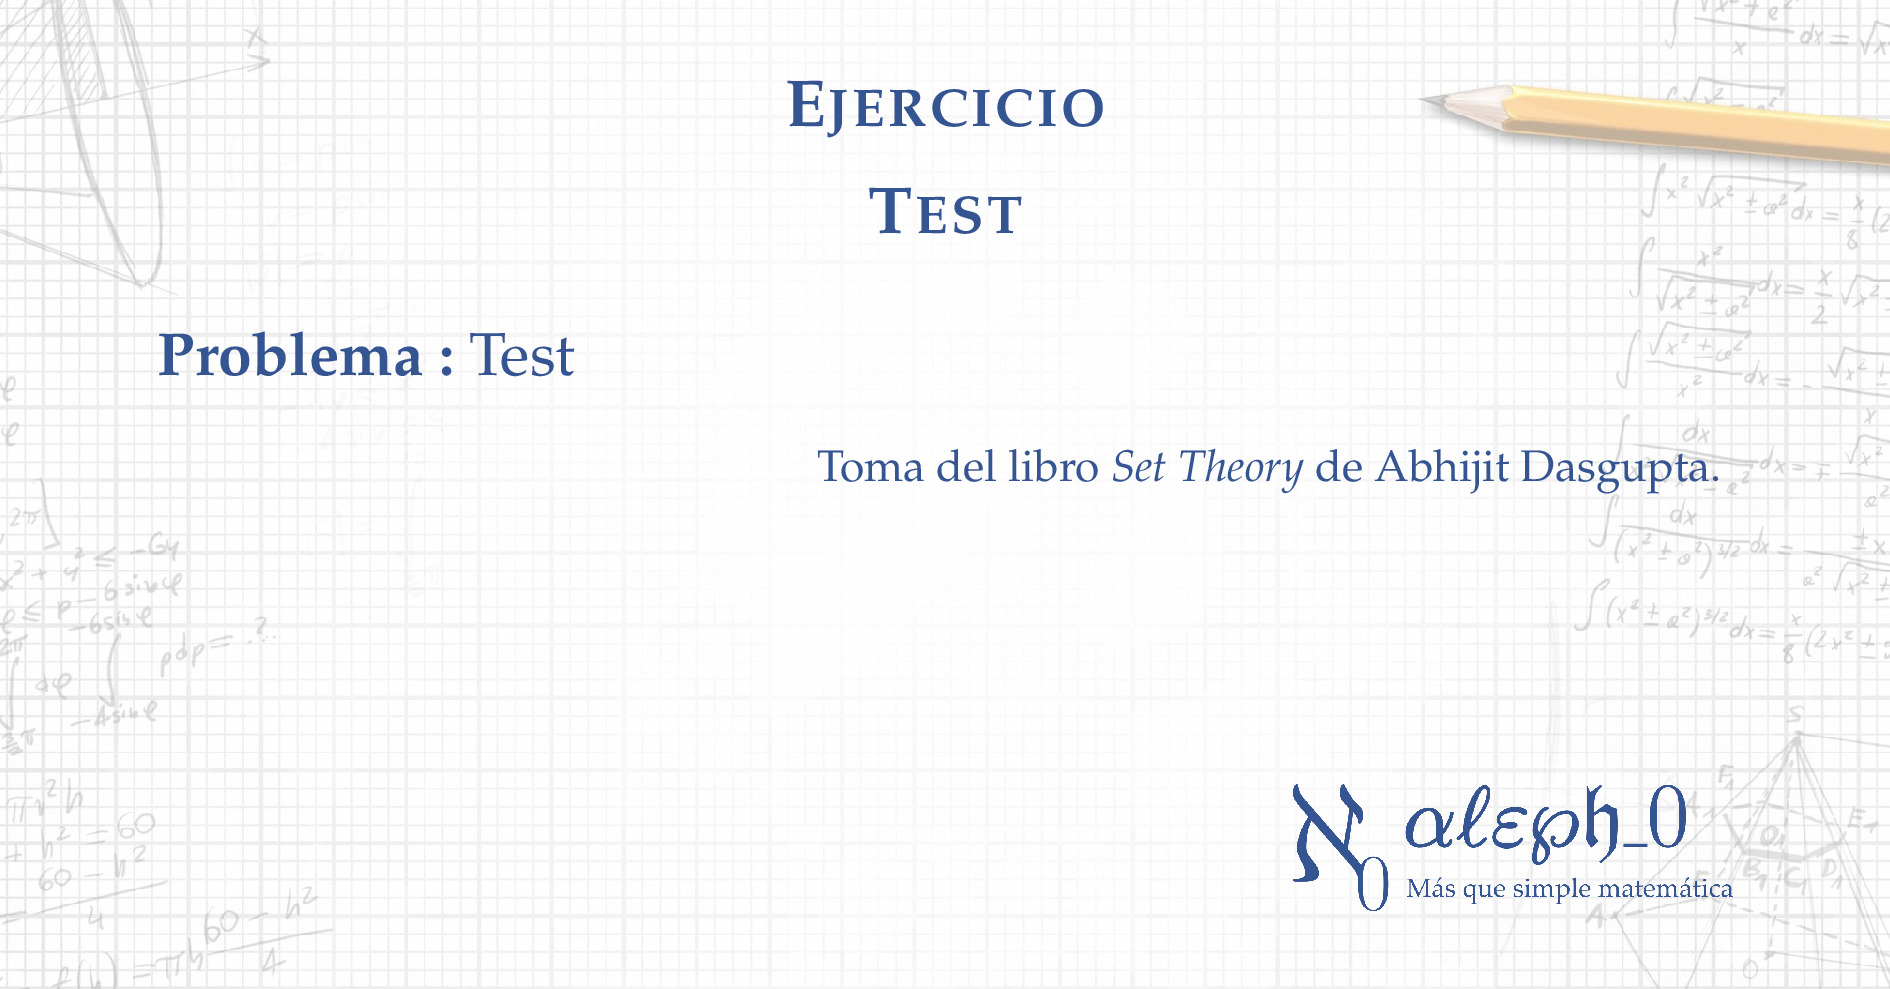
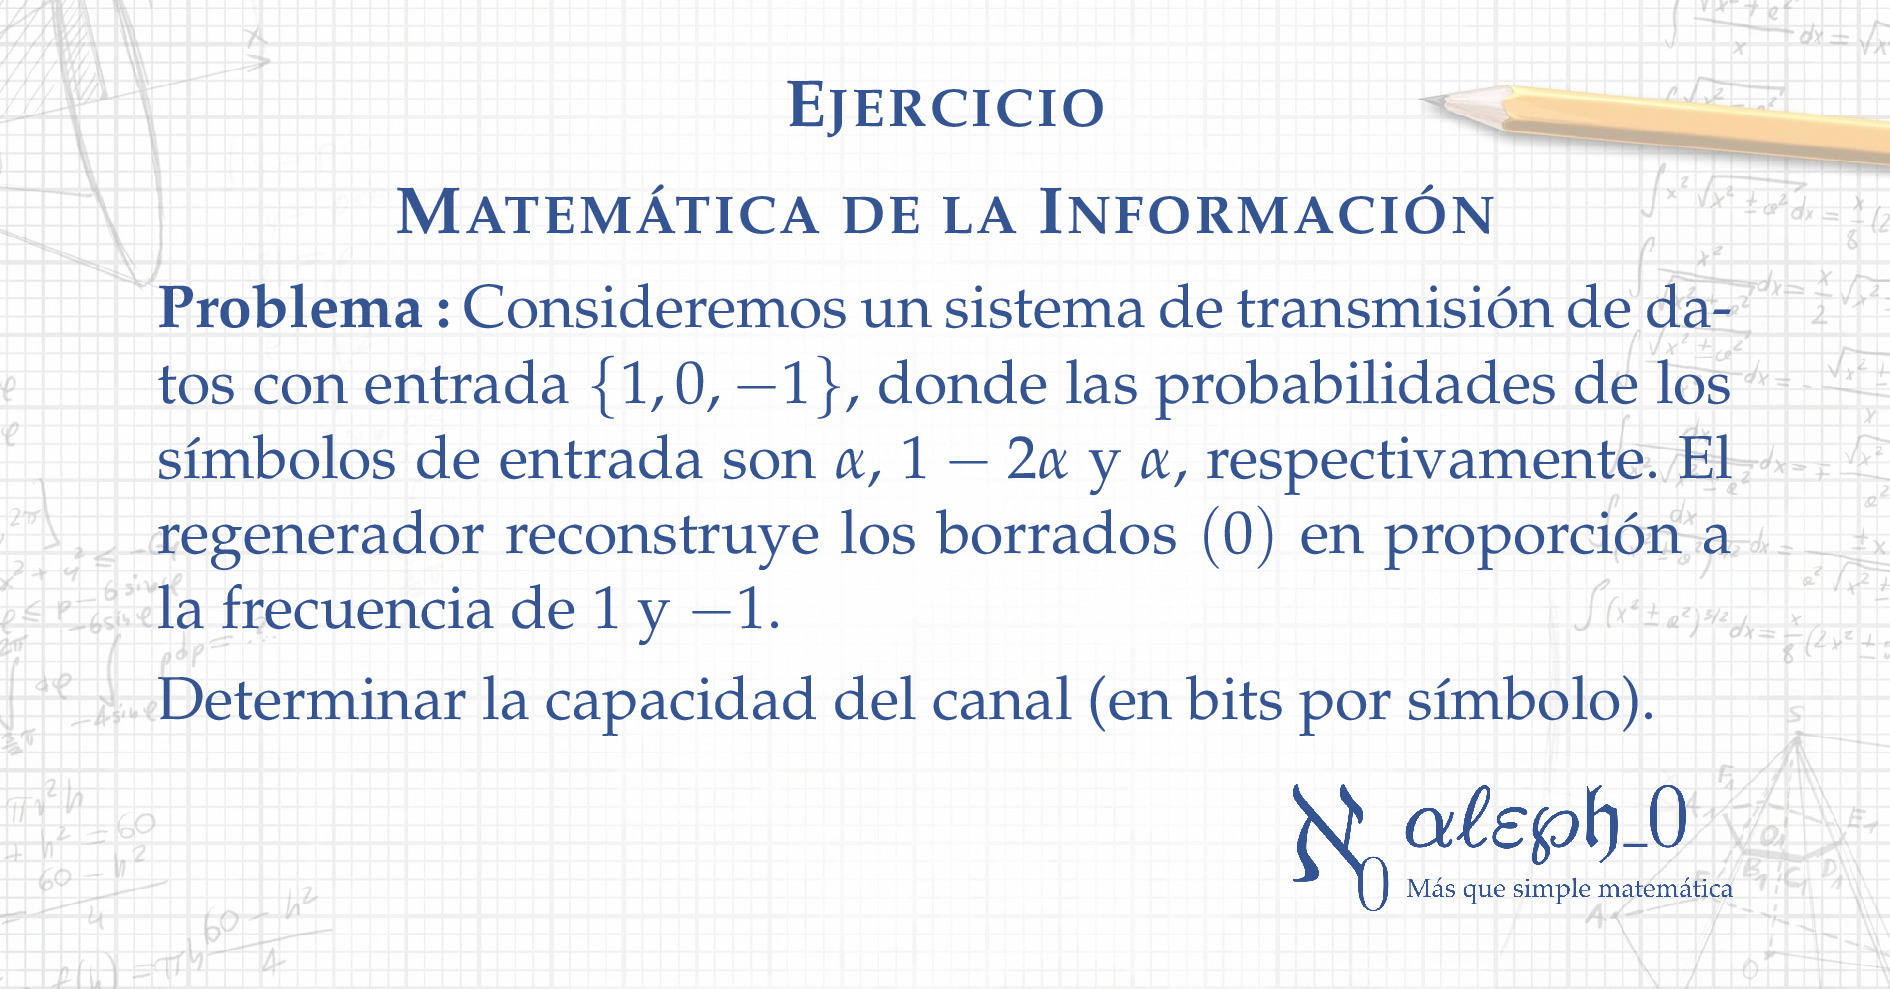
Updates from Overleaf

diff --git a/CompCuantica/MI01-Capacidad.tex b/CompCuantica/MI01-Capacidad.tex
@@ -1,0 +1,132 @@
+\documentclass[a4,10pt]{aleph-notas}
+
+% -- Paquetes adicionales
+\usepackage{enumitem}
+\usepackage{aleph-comandos}
+
+% -- Datos
+\institucion{Proyecto Alephsub0}
+\asignatura{Matemáticas de la Información}
+\tema{Capacidad de un canal con regenerador ternario}
+\autor{Andrés Merino}
+\fecha{Abril 2026}
+
+\fuente{montserrat}
+\logouno[4.5cm]{Logos/LogoAlephsub0-02}
+\definecolor{colordef}{cmyk}{0.81,0.62,0.00,0.22}
+
+% -- Comandos adicionales
+\newtheorem*{prob}{Problema}
+    \tcolorboxenvironment{prob}{%
+        color=colordef,recuadrost,colback=colordef!7,drop fuzzy shadow
+    }
+
+\begin{document}
+
+\encabezado
+
+\begin{prob}
+Consideremos un sistema de transmisión de datos con entrada
+\(X\in\{1,0,-1\}\), donde las probabilidades de los símbolos de entrada son:
+\[
+    P(X=1)=\alpha,\qquad P(X=0)=1-2\alpha,\qquad P(X=-1)=\alpha,
+\]
+con \(0<\alpha\le \frac{1}{2}\). El regenerador mantiene los símbolos no borrados y reconstruye los borrados
+\((X=0)\) en proporción a la frecuencia de \(1\) y \(-1\).
+
+Determinar la capacidad del canal (en bits por símbolo).
+\end{prob}
+
+\begin{proof}
+Dado que el regenerador mantiene los símbolos no borrados y reconstruye los borrados en proporción a la frecuencia, se tiene:
+\begin{align*}
+    P(Y=1\mid X=1)&=1,& P(Y=-1\mid X=1)&=0,\\
+    P(Y=1\mid X=-1)&=0,& P(Y=-1\mid X=-1)&=1,\\
+    P(Y=1\mid X=0)&=\frac{\alpha}{2\alpha}=\frac{1}{2},&
+    P(Y=-1\mid X=0)&=\frac{\alpha}{2\alpha}=\frac{1}{2}.
+\end{align*}
+Equivalente en forma matricial (filas: \(X=1,0,-1\); columnas: \(Y=1,-1\)):
+\[
+    \begin{pmatrix}
+    1 & 0 \\
+    \frac{1}{2} & \frac{1}{2} \\
+    0 & 1
+    \end{pmatrix}.
+\]
+
+Por el segundo teorema de Shannon, la capacidad es
+\[
+    C=\max_{P_X} I(X;Y).
+\]
+Para calcular la información mutua usamos
+\[
+    I(X;Y)=H(Y)-H(Y\mid X).
+\]
+
+Primero obtenemos la distribución de salida. Por la ley de la probabilidad total,
+\begin{align*}
+    P(Y=1)
+        &=P(Y=1\mid X=1)P(X=1)+P(Y=1\mid X=0)P(X=0)+P(Y=1\mid X=-1)P(X=-1)\\
+        &=1\cdot \alpha+\frac{1}{2}(1-2\alpha)+0\cdot \alpha\\
+        &=\alpha+\frac{1}{2}-\alpha\\
+        &=\frac{1}{2}.
+\end{align*}
+De manera análoga,
+\[
+P(Y=-1)=\frac{1}{2}.
+\]
+
+Así, \(Y\) es uniforme en \(\{1,-1\}\), y por tanto
+\[
+    H(Y)=-\frac{1}{2}\log_2\left(\frac{1}{2}\right)-\frac{1}{2}\log_2\left(\frac{1}{2}\right)=1.
+\]
+
+Calculamos ahora la entropía condicional para cada valor de \(X\):
+\begin{itemize}
+    \item Si \(X=0\), entonces \(Y\) toma los valores \(1\) y \(-1\) con probabilidad \(1/2\) cada uno, luego
+    \begin{align*}
+    H(Y\mid X=0)
+        &= - P(Y=1\mid X=0)\log_2\left( P(Y=1\mid X=0)\right) \\
+        & \phantom{=}- P(Y=-1\mid X=0)\log_2\left( P(Y=-1\mid X=0) \right)\\
+        &= - \frac{1}{2}\log_2\left(\frac{1}{2}\right) 
+        - \frac{1}{2}\log_2\left(\frac{1}{2}\right) = 1.
+    \end{align*}
+    \item Si \(X=1\), entonces \(Y=1\) con probabilidad \(1\), luego no hay incertidumbre:
+    \[
+        H(Y\mid X=1)=0.
+    \]
+    \item Si \(X=-1\), entonces \(Y=-1\) con probabilidad \(1\), luego tampoco hay incertidumbre:
+    \[
+        H(Y\mid X=-1)=0.
+    \]
+
+\end{itemize}
+
+Por la fórmula de entropía condicional,
+\begin{align*}
+    H(Y\mid X)
+        &=P(X=1)H(Y\mid X=1)+P(X=0)H(Y\mid X=0)+P(X=-1)H(Y\mid X=-1)\\
+        &=\alpha\cdot 0+(1-2\alpha)\cdot 1+\alpha\cdot 0\\
+        &=1-2\alpha.
+\end{align*}
+
+Sustituyendo en la expresión de información mutua,
+\begin{align*}
+    I(X;Y)
+        &=H(Y)-H(Y\mid X)\\
+        &=1-(1-2\alpha)\\
+        &=2\alpha.
+\end{align*}
+
+Con esto, el valor máximo de $I$ en el intervalo \(0<\alpha\le \frac{1}{2}\) se alcanza en $\alpha=\frac{1}{2}$, en ese caso,
+\[
+    I(X;Y)=2\cdot \frac{1}{2}=1.
+\]
+Por consiguiente, la capacidad del canal es
+\[
+    C=1\text{ bit por símbolo}.\qedhere
+\]
+\end{proof}
+
+
+\end{document}

diff --git a/Portada.tex b/Portada.tex
@@ -6,14 +6,17 @@
 
 \begin{document}
 
-\titulo{Test}
+\titulo{Matemática de la Información}
 
-\problema[0mm]{}{Test}
+\problema[-3mm]{}{Consideremos un sistema de transmisión de datos con entrada \(\{1,0,-1\}\), donde las probabilidades de los símbolos de entrada son $\alpha$, $1-2\alpha$ y $\alpha$, respectivamente. El regenerador reconstruye los borrados \((0)\) en proporción a la frecuencia de \(1\) y \(-1\).
 
-\vspace{2mm}
-{\scriptsize
-    \hspace{\fill}Toma del libro \textit{Set Theory} de Abhijit Dasgupta.
-}
+\vspace{1mm}
+\noindent Determinar la capacidad del canal (en bits por símbolo).}
+
+% \vspace{2mm}
+% {\scriptsize
+%     \hspace{\fill}Toma del libro \textit{Set Theory} de Abhijit Dasgupta.
+% }
 
 \logo
 
